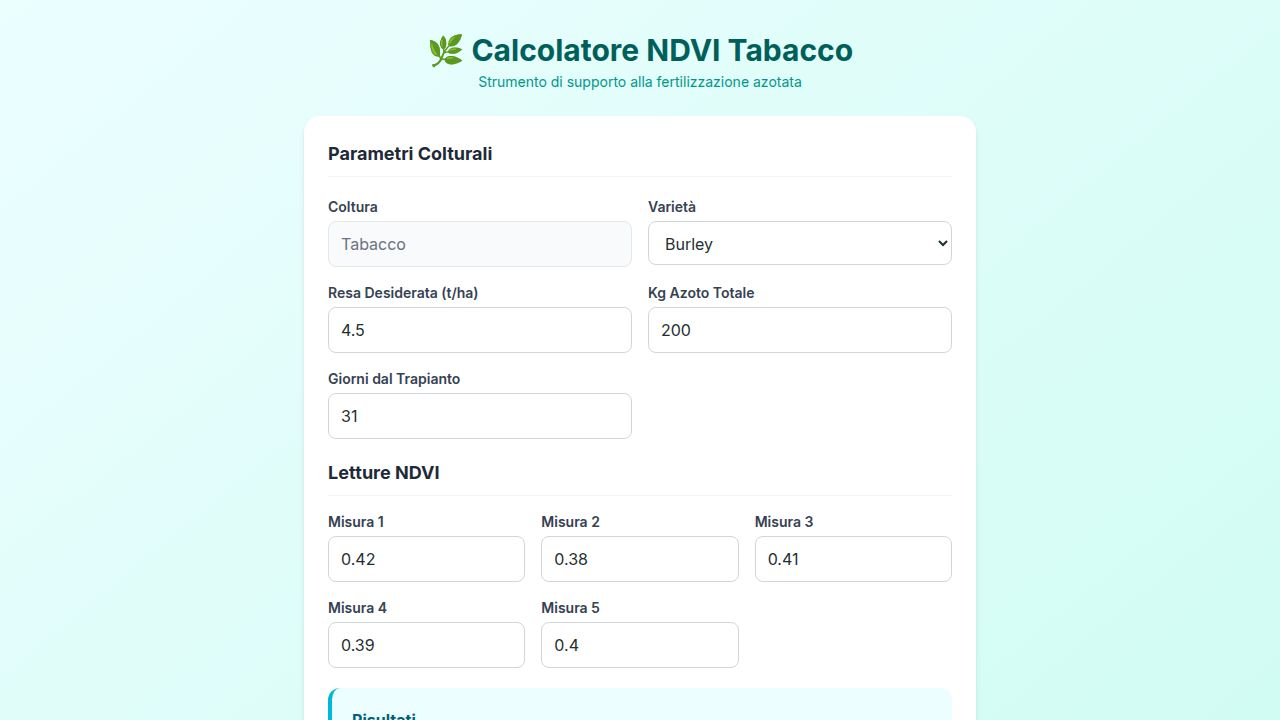
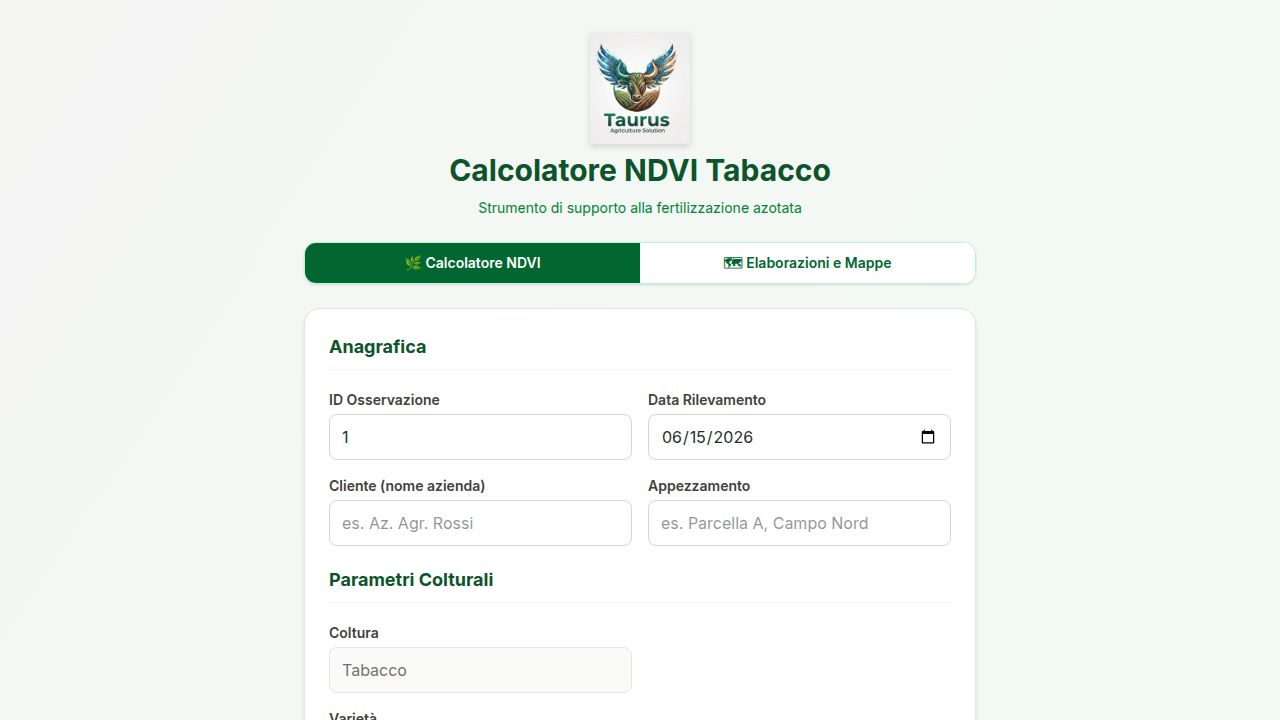
Use all available GPS points for interpolation, regardless of plot name
Remove `useAllGps` state, `dbControlsMatched`, and `dbControlsAll` logic in `ElaborazioniMappe.tsx`, simplifying the interpolation process to always use all GPS points and updating UI elements to reflect this change.

Replit-Commit-Author: Agent
Replit-Commit-Session-Id: f61ecd57-8997-4a77-baf5-7cb56fc0ef26
Replit-Commit-Checkpoint-Type: full_checkpoint
Replit-Commit-Event-Id: a04b62ba-c74a-45be-ae42-d29a52777ed4
Replit-Commit-Screenshot-Url: https://storage.googleapis.com/screenshot-production-us-central1/27ec4a15-12f0-429d-b773-9d505cf88e46/f61ecd57-8997-4a77-baf5-7cb56fc0ef26/fuNwlyy
Replit-Helium-Checkpoint-Created: true

diff --git a/artifacts/ndvi-tabacco/src/ElaborazioniMappe.tsx b/artifacts/ndvi-tabacco/src/ElaborazioniMappe.tsx
@@ -195,7 +195,6 @@ export function ElaborazioniMappe({ osservazioni }: Props) {
 
   // UI
   const [showNotes,     setShowNotes]     = useState(false);
-  const [useAllGps,     setUseAllGps]     = useState(false);
 
   // GPS-enabled observations
   const gpsObs = useMemo(
@@ -203,26 +202,9 @@ export function ElaborazioniMappe({ osservazioni }: Props) {
     [osservazioni]
   );
 
-  // Auto-derive controls for selected polygon (DB source)
-  const dbControlsMatched = useMemo<ControlPoint[]>(() => {
-    if (selPolyIdx === null || !polygons[selPolyIdx]) return [];
-    const norm = polygons[selPolyIdx].name.toLowerCase().trim();
-    return gpsObs
-      .filter(o => {
-        const a = o.appezzamento.toLowerCase().trim();
-        return a.includes(norm) || norm.includes(a);
-      })
-      .map(o => ({
-        obsId:        o.id,
-        cliente:      o.cliente,
-        appezzamento: o.appezzamento,
-        lng:          o.lng!,
-        lat:          o.lat!,
-        dose:         o.dose,
-      }));
-  }, [selPolyIdx, polygons, gpsObs]);
-
-  const dbControlsAll = useMemo<ControlPoint[]>(() =>
+  // Tutti i punti GPS disponibili — il poligono definisce solo la superficie
+  // di rasterizzazione IDW, non filtra i punti per nome appezzamento.
+  const dbControls = useMemo<ControlPoint[]>(() =>
     gpsObs.map(o => ({
       obsId:        o.id,
       cliente:      o.cliente,
@@ -232,8 +214,6 @@ export function ElaborazioniMappe({ osservazioni }: Props) {
       dose:         o.dose,
     })),
   [gpsObs]);
-
-  const dbControls = useAllGps ? dbControlsAll : dbControlsMatched;
 
   const activeControls: ControlPoint[] = pointSource === "db" ? dbControls : shpPoints;
 
@@ -386,7 +366,7 @@ export function ElaborazioniMappe({ osservazioni }: Props) {
               <ul className="list-disc ml-4 mt-1.5 space-y-0.5 text-blue-800">
                 <li>Geometria: <strong>Polygon</strong> o <strong>MultiPolygon</strong></li>
                 <li>Sistema di riferimento: <strong>WGS 84 geografico (EPSG:4326)</strong> — gradi decimali</li>
-                <li>Il nome del poligono (campo <em>Name</em> in KML/KMZ, oppure <em>NOME / Name / APPEZZ</em> in Shapefile) è usato per il matching con <em>Appezzamento</em></li>
+                <li>Il nome del poligono (campo <em>Name</em> in KML/KMZ, oppure <em>NOME / Name / APPEZZ</em> in Shapefile) viene usato solo come etichetta — non è richiesta corrispondenza con il campo <em>Appezzamento</em></li>
               </ul>
             </div>
             <div>
@@ -434,29 +414,22 @@ export function ElaborazioniMappe({ osservazioni }: Props) {
             <p className="text-xs text-stone-500 font-medium uppercase tracking-wide">
               {polygons.length} poligono{polygons.length !== 1 ? "i" : ""} rilevato{polygons.length !== 1 ? "i" : ""}
             </p>
-            {polygons.map((p, i) => {
-              const matchCount = gpsObs.filter(o => {
-                const a = o.appezzamento.toLowerCase().trim();
-                const b = p.name.toLowerCase().trim();
-                return a.includes(b) || b.includes(a);
-              }).length;
-              return (
-                <button
-                  key={i}
-                  onClick={() => { setSelPolyIdx(i); setResults(prev => { const m = new Map(prev); return m; }); }}
-                  className={`w-full flex items-center justify-between text-sm px-3 py-2 rounded-lg border transition-colors ${
-                    selPolyIdx === i
-                      ? "bg-green-800 text-white border-green-700"
-                      : "bg-stone-50 text-stone-700 border-stone-200 hover:bg-green-50"
-                  }`}
-                >
-                  <span className="font-medium truncate">{p.name}</span>
-                  <span className={`text-xs ml-2 shrink-0 ${selPolyIdx === i ? "text-green-200" : "text-stone-400"}`}>
-                    {matchCount} oss. GPS
-                  </span>
-                </button>
-              );
-            })}
+            {polygons.map((p, i) => (
+              <button
+                key={i}
+                onClick={() => { setSelPolyIdx(i); setResults(prev => new Map(prev)); }}
+                className={`w-full flex items-center justify-between text-sm px-3 py-2 rounded-lg border transition-colors ${
+                  selPolyIdx === i
+                    ? "bg-green-800 text-white border-green-700"
+                    : "bg-stone-50 text-stone-700 border-stone-200 hover:bg-green-50"
+                }`}
+              >
+                <span className="font-medium truncate">{p.name}</span>
+                <span className={`text-xs ml-2 shrink-0 ${selPolyIdx === i ? "text-green-200" : "text-stone-400"}`}>
+                  {gpsObs.length} oss. GPS
+                </span>
+              </button>
+            ))}
           </div>
         )}
       </div>
@@ -494,33 +467,11 @@ export function ElaborazioniMappe({ osservazioni }: Props) {
               </p>
             ) : selPolyIdx === null ? (
               <p className="text-sm text-stone-400 italic">Seleziona prima un poligono.</p>
-            ) : !useAllGps && dbControlsMatched.length === 0 ? (
-              <div className="text-sm text-amber-700 bg-amber-50 rounded-lg px-3 py-2 space-y-2">
-                <p>⚠️ Nessuna osservazione GPS corrisponde al poligono <strong>{polygons[selPolyIdx]?.name}</strong>.</p>
-                <p className="text-xs text-amber-600">
-                  Il matching confronta il nome del poligono con il campo <em>Appezzamento</em> del registro.
-                  Se i nomi non coincidono, usa il pulsante qui sotto per includere tutte le osservazioni GPS.
-                </p>
-                <button
-                  onClick={() => setUseAllGps(true)}
-                  className="mt-1 bg-amber-600 hover:bg-amber-700 text-white text-xs font-semibold px-3 py-1.5 rounded-lg transition-colors"
-                >
-                  📍 Usa tutte le {gpsObs.length} osservazioni GPS
-                </button>
-              </div>
             ) : (
               <>
-              {useAllGps && (
-                <div className="flex items-center justify-between bg-blue-50 border border-blue-200 rounded-lg px-3 py-2 mb-3 text-xs text-blue-800">
-                  <span>📍 Modalità <strong>tutte le osservazioni GPS</strong> attiva — {dbControlsAll.length} punti inclusi</span>
-                  <button
-                    onClick={() => setUseAllGps(false)}
-                    className="ml-3 text-blue-600 hover:text-blue-800 underline shrink-0"
-                  >
-                    Torna al matching automatico
-                  </button>
-                </div>
-              )}
+              <p className="text-xs text-stone-400 mb-2">
+                📍 {dbControls.length} osservazioni GPS disponibili — tutti i punti vengono usati per l'interpolazione IDW sul poligono selezionato.
+              </p>
               <div className="overflow-x-auto">
                 <table className="w-full text-xs border-collapse">
                   <thead>